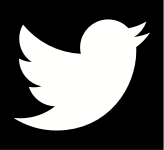
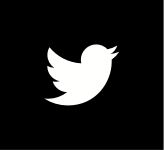
gottagofast

Changed region(s): [[0.0915, 0.1067, 0.9146, 0.88]]

diff --git a/public/pages/newhomepage.html b/public/pages/newhomepage.html
@@ -14,12 +14,10 @@
 			<p>If you'd live to collaborate on something or just want to say "hi" it would be a pleasure to hear from you.</p>
 			<nav>
 				<ul>
-					<li><img class="social-icon" src="./images/Medium.png">Medium</li>
-					<li><img class="social-icon" src="./images/GitHub.png">GitHub</li>
-					<li><img class="social-icon" src="./images/LinkedIn.png">LinkedIn</li>
-					<li><img class="social-icon" src="./images/Twitter.png">Twitter</li>
-					<li>SoundCloud</li>
-					<li>GoodReads</li>
+					<li><img class="social-icon" src="./images/Medium.png"></li>
+					<li><img class="social-icon" src="./images/Twitter.png"></li>
+					<li><img class="social-icon" src="./images/LinkedIn.png"></li>
+					<li><img class="social-icon" src="./images/GitHub.png"></li>
 				</ul>
 			</nav>
 		</section>
